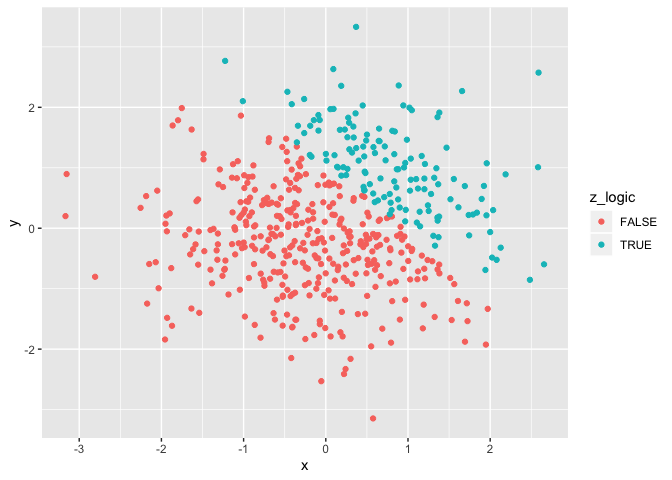
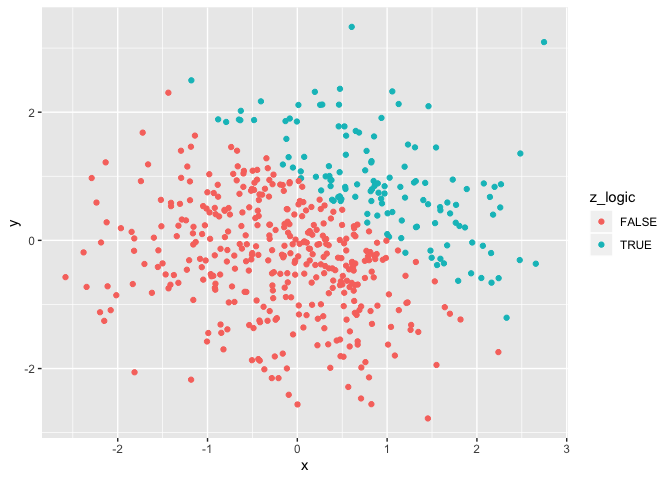
Modified R markdown file: Added values to p1_df data frame; Added set.seed;

diff --git a/p8105_hw1_xy2396.md b/p8105_hw1_xy2396.md
@@ -7,43 +7,47 @@ This is the R Markdown for P8150 Homework 1
 
 ## Problem 1
 
-<br> **Create data frame and load
-    pakage**
+<br> **Create data frame**
 
 ``` r
+#load the tidyverse package
 library(tidyverse)
 ```
 
-    ## ── Attaching packages ──────────────────────────────── tidyverse 1.2.1 ──
+    ## ── Attaching packages ─────────────────────────────────────── tidyverse 1.2.1 ──
 
     ## ✔ ggplot2 3.2.1     ✔ purrr   0.3.2
     ## ✔ tibble  2.1.3     ✔ dplyr   0.8.3
     ## ✔ tidyr   0.8.3     ✔ stringr 1.4.0
     ## ✔ readr   1.3.1     ✔ forcats 0.4.0
 
-    ## ── Conflicts ─────────────────────────────────── tidyverse_conflicts() ──
+    ## ── Conflicts ────────────────────────────────────────── tidyverse_conflicts() ──
     ## ✖ dplyr::filter() masks stats::filter()
     ## ✖ dplyr::lag()    masks stats::lag()
 
 ``` r
+#Set seed for random sampling
+set.seed(123)
+
+#Create data frame p1_df
 p1_df = tibble(
   ran_sample = rnorm(8),
-  vec_char = character(8),
+  vec_char = c("This", "is", "an", "example", "of", "the", "char", "vector"),
   vec_logical = ran_sample > 0,
-  vec_factor = factor(levels = c("level1", "level2", "level3"), length(8))
+  vec_factor = factor(c("Yes", "No", "Maybe", "Maybe", "Yes", "No", "Yes", "No")) 
 )
 ```
 
 <br>
 
-**Compute mean for each variable in data
-    frame**
+**Compute mean for each variable in data frame**
 
 ``` r
+#Compute means
 mean(pull(p1_df, ran_sample))
 ```
 
-    ## [1] 0.2073658
+    ## [1] 0.2348464
 
 ``` r
 mean(pull(p1_df, vec_char))
@@ -71,7 +75,7 @@ mean(pull(p1_df, vec_factor))
 
 As seen above, among the 4 variables, mean can be computed for the
 random sample and the logical vector, but cannot be computed for the
-character or factor vector.  
+character or factor vector, which returns ‘NA’ as result.  
 <br>
 
 **Apply as.numeric and convert**
@@ -82,20 +86,24 @@ as.numeric(pull(p1_df, vec_logical))
 as.numeric(pull(p1_df, vec_factor))
 ```
 
-When ‘as.numeric’ is applied, character vector and factor vector showed
-‘NA’ while logical vector showed ‘0’ or ‘1’. This indicates that
-logical vector can be treated as numeric, which helps explain why
-logical vector can be used to compute mean while the other two can’t.
+When ‘as.numeric’ is applied, character vector returns ‘NA’ by coercion,
+while logical and factor vectors return numeric values. This indicates
+that logical and factor vectors can be coerced into numeric values but
+character vector can’t. This helps explain why logical vector can be
+used to compute mean, but doesn’t explain why factor vector
+can’t.
 
 ``` r
+#convert the logical vector to numeric, and multiply the random sample by the result
 convert_1 = as.numeric(pull(p1_df, vec_logical))
 convert_1 * pull(p1_df, ran_sample)
 ```
 
-    ## [1] 0.0000000 0.3234797 1.0793281 0.8266546 0.0000000 0.8692794 0.0000000
-    ## [8] 0.2906189
+    ## [1] 0.00000000 0.00000000 1.55870831 0.07050839 0.12928774 1.71506499
+    ## [7] 0.46091621 0.00000000
 
 ``` r
+#convert the logical vector to a factor, and multiply the random sample by the result
 convert_2 = as.factor(pull(p1_df, vec_logical))
 convert_2 * pull(p1_df, ran_sample)
 ```
@@ -106,13 +114,19 @@ convert_2 * pull(p1_df, ran_sample)
     ## [1] NA NA NA NA NA NA NA NA
 
 ``` r
+#convert the logical vector to a factor and then convert the result to numeric, and multiply the random sample by the result
 convert_3 = as.factor(pull(p1_df, vec_logical))
 convert_3 = as.numeric(convert_3)
 convert_3 * pull(p1_df, ran_sample)
 ```
 
-    ## [1] -0.103998159  0.646959443  2.158656294  1.653309199 -1.620162184
-    ## [6]  1.738558762 -0.006273662  0.581237706
+    ## [1] -0.5604756 -0.2301775  3.1174166  0.1410168  0.2585755  3.4301300
+    ## [7]  0.9218324 -1.2650612
+
+As seen above, when the logical vector is ultimately converted to
+numeric, it can be multiplied by the random sample; however, when it is
+only converted into a factor, it cannot be multiplied by the random
+sample.
 
 -----
 
@@ -121,6 +135,8 @@ convert_3 * pull(p1_df, ran_sample)
 <br> **Create data frame**
 
 ``` r
+set.seed(12345)
+
 p2_df = tibble(
   x = rnorm(500),
   y = rnorm(500),
@@ -131,9 +147,9 @@ p2_df = tibble(
 ```
 
   - The dataset contains 500 rows and 5 columns.  
-  - For sample x, the mean is 0.02, the median is 0.04, and the standard
-    deviation is 0.98
-  - 27.4% of sample x satisfy that x + y \> 1
+  - For sample x, the mean is 0.08, the median is 0.1, and the standard
+    deviation is 0.99
+  - 26% of sample x satisfy that x + y \> 1
 
 <br>
 
@@ -142,18 +158,22 @@ p2_df = tibble(
 *Scatterplot 1*: group by logical variable (see below)
 
 ``` r
+#Generate the first scatterplot, color points using the logical variable
 ggplot(p2_df, aes(x = x, y = y, color = z_logic)) + geom_point()
 ```
 
 ![](p8105_hw1_xy2396_files/figure-gfm/unnamed-chunk-6-1.png)<!-- -->
 
 ``` r
+#Export the scatterplot to project directory
 ggsave("scatter_plot.pdf", height = 4, width = 6)
 ```
 
-<br> *Scatterplot 2*: group by numeric variable (see below)
+<br> *Scatterplot 2*: group by numeric variable (see
+below)
 
 ``` r
+#Generate the second scatterplot, color points using the numeric variable
 ggplot(p2_df, aes(x = x, y = y, color = z_numeric)) + geom_point()
 ```
 
@@ -162,6 +182,7 @@ ggplot(p2_df, aes(x = x, y = y, color = z_numeric)) + geom_point()
 <br> *Scatterplot 3*: group by factor variable (see below)
 
 ``` r
+#Generate the third scatterplot, color points using the factor variable
 ggplot(p2_df, aes(x = x, y = y, color = z)) + geom_point()
 ```
 
